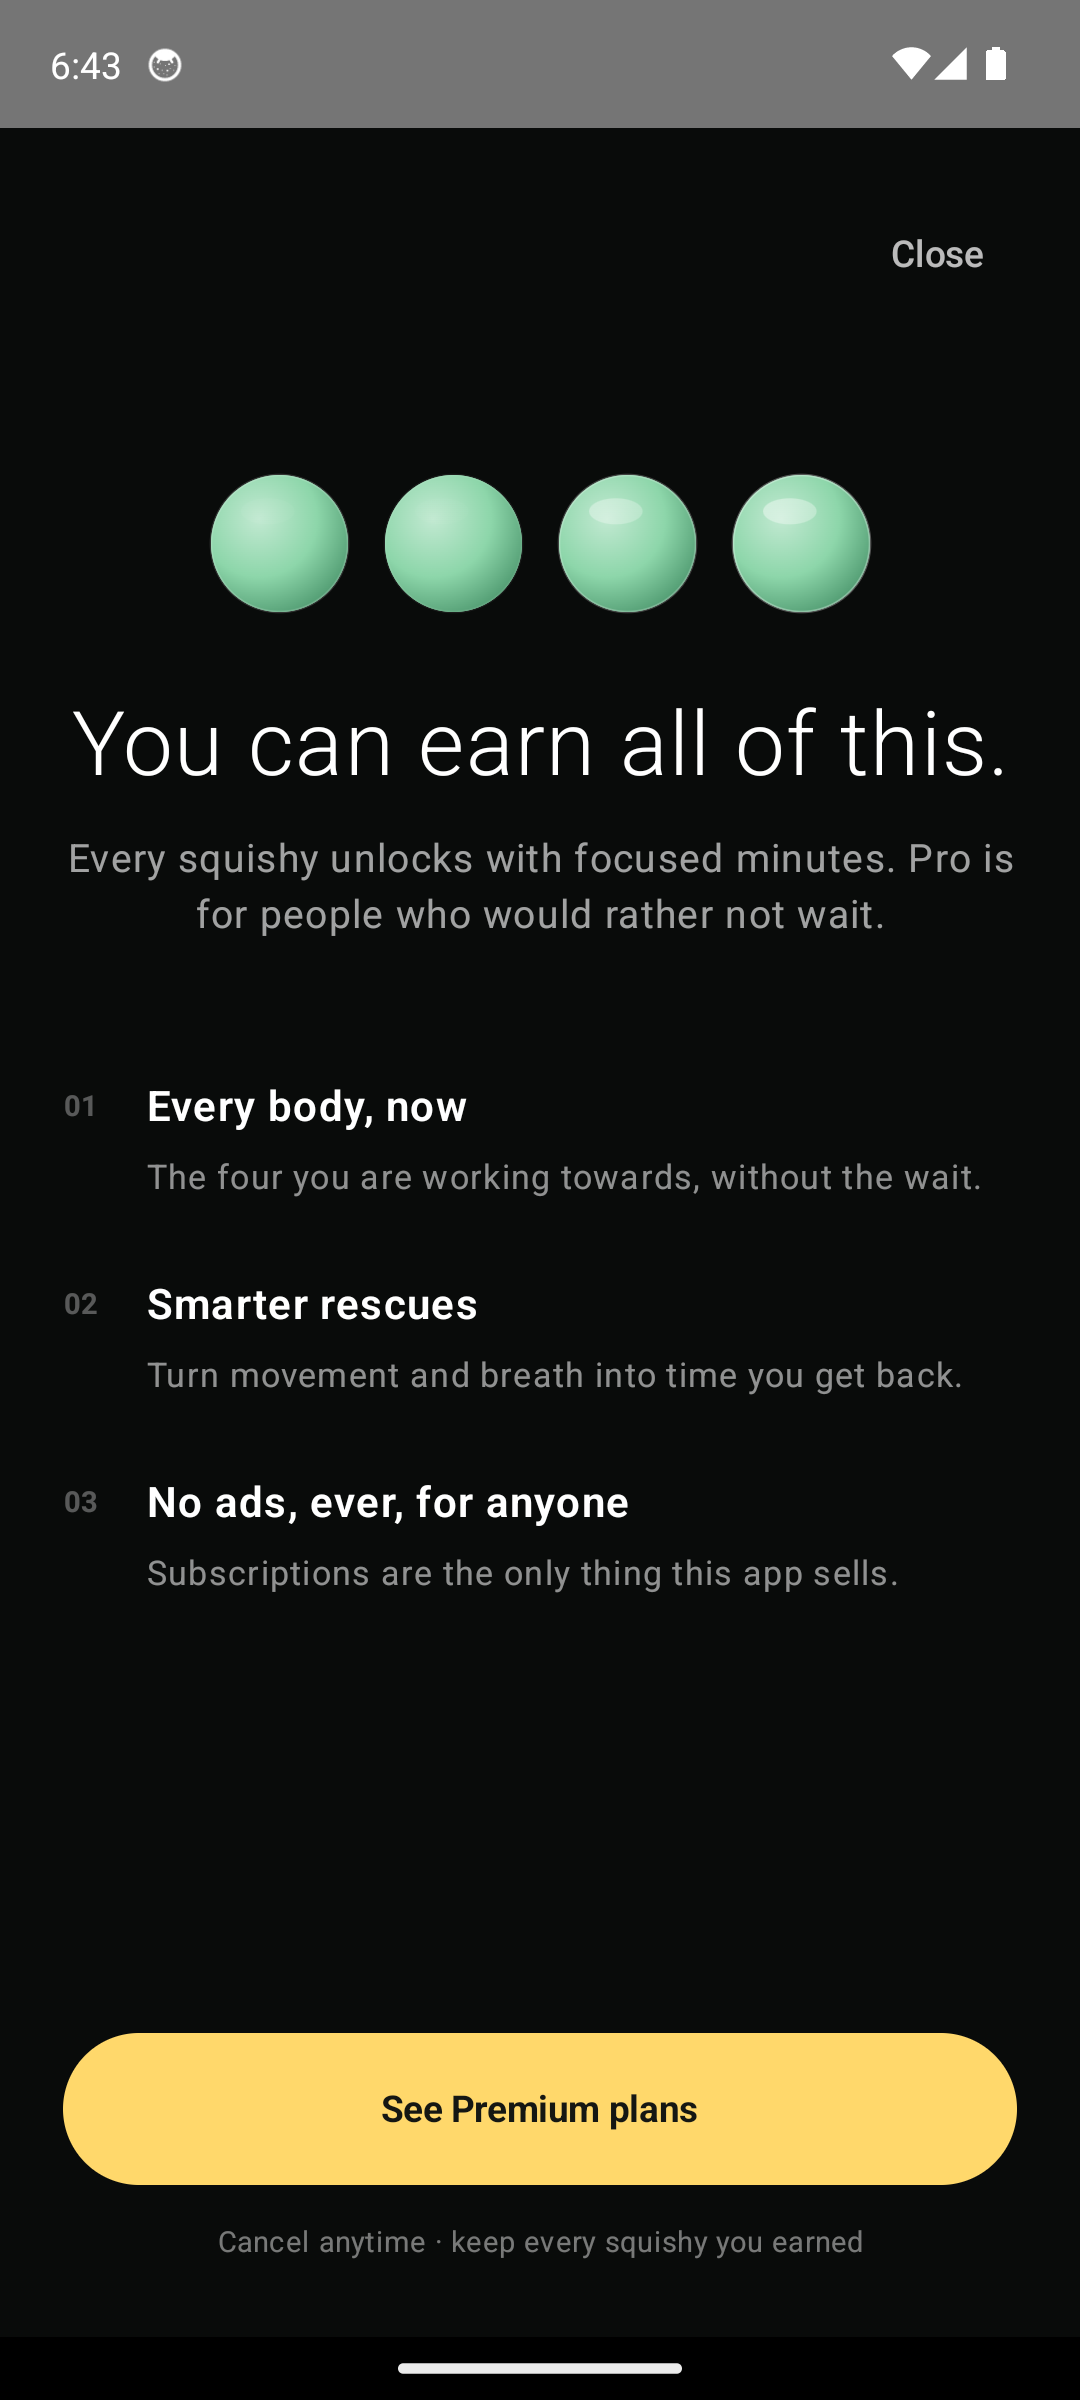
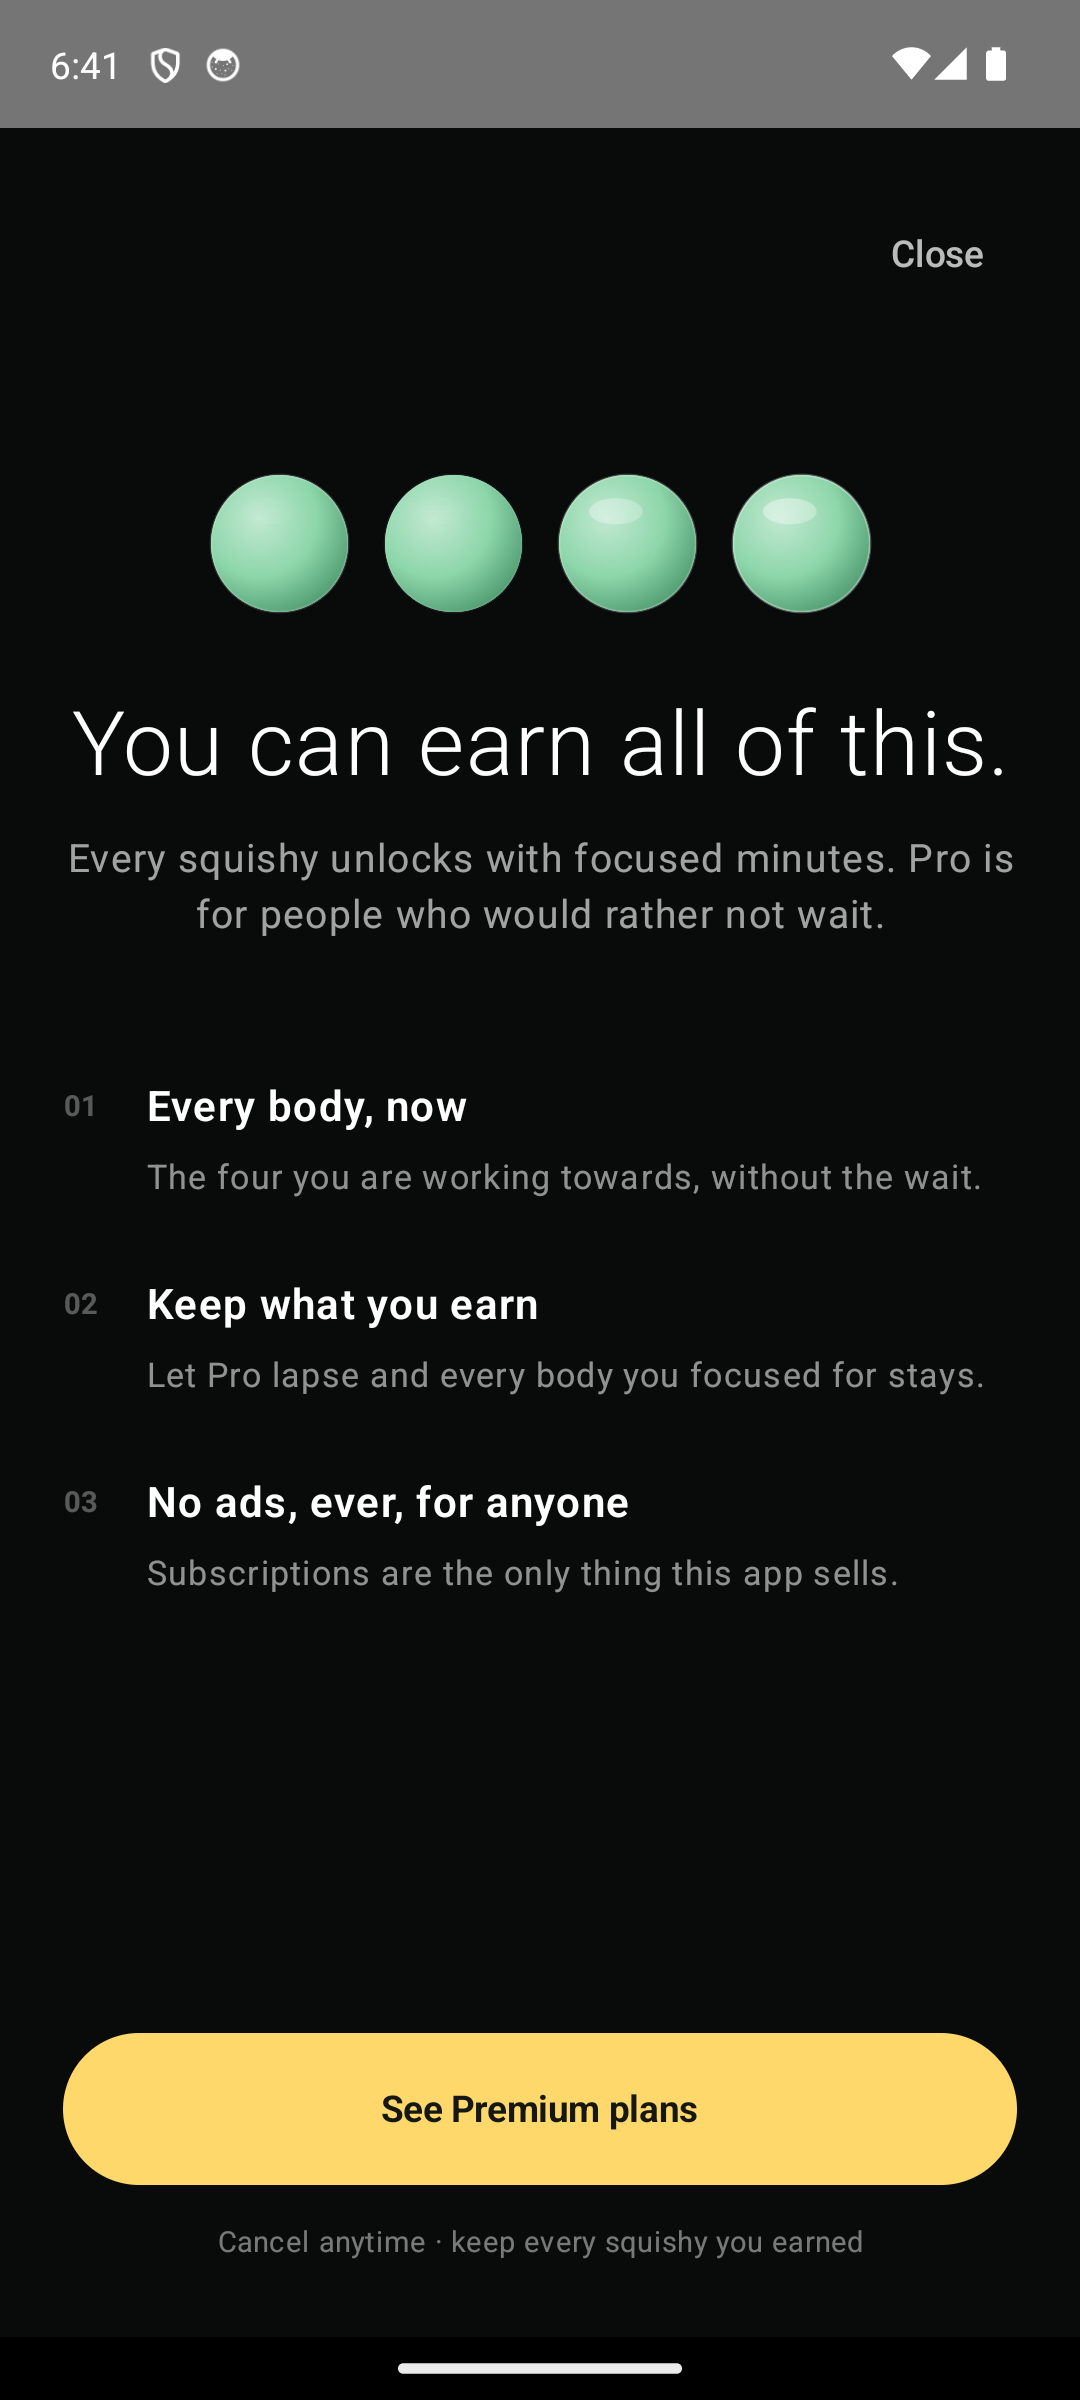
Add the plans screen to the submission screenshots and the README

Changed region(s): [[0.1222, 0.5312, 0.8861, 0.5938], [0.1528, 0.0, 0.2139, 0.0312]]

diff --git a/tools/make_submission_shots.py b/tools/make_submission_shots.py
@@ -25,7 +25,8 @@ SHOTS = [
     ("evidence/screen_focus.png", "04-the-focus-screen.png"),
     ("evidence/unlock.png", "05-earning-a-body.png"),
     ("evidence/screen_journey.png", "06-the-shelf.png"),
-    ("evidence/ios/ios-welcome.png", "07-same-app-on-iphone.png"),
+    ("evidence/plans.png", "07-the-plans.png"),
+    ("evidence/ios/ios-welcome.png", "08-same-app-on-iphone.png"),
 ]
 
 

diff --git a/README.md b/README.md
@@ -70,6 +70,7 @@ Because only one body is free at the start, tapping a locked one hands it to you
   <img src="evidence/unlock.png" width="30%" alt="Earning a squishy">
   <img src="evidence/screen_journey.png" width="30%" alt="The shelf">
   <img src="evidence/premium.png" width="30%" alt="The upgrade screen shows the bodies, not a badge">
+  <img src="evidence/plans.png" width="30%" alt="The plans, in the app's own style">
 </p>
 
 ### The materials are not reskins
